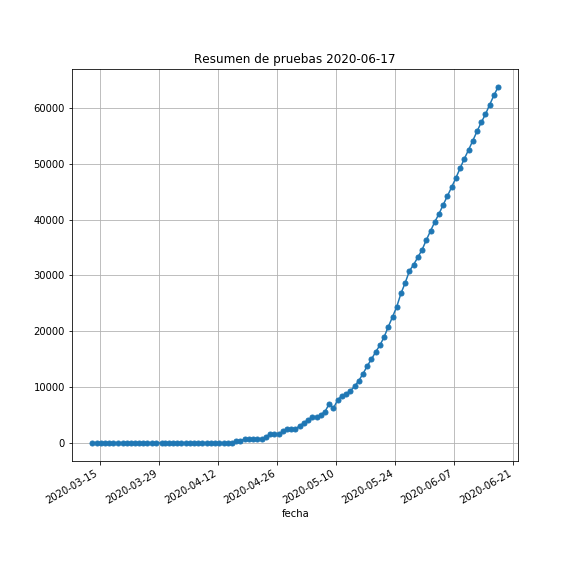
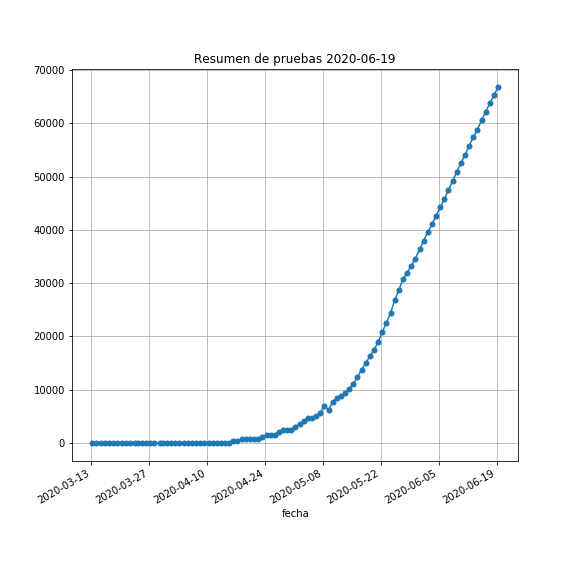
Actualizacion 20junio2020 falta numero de pruebas para hoy

diff --git a/README.md b/README.md
@@ -28,17 +28,17 @@ Proposito:
 08 de Junio 2020: Ahora vamos a intentar recopilar datos del hambre en Guatemala, que la pandemia esta poniendo al frente del escenario. [La Olla](https://www.facebook.com/LaOllaComunitariaCA) [Comunitaria](https://twitter.com/LaOlla_CA) está haciendo esta gran labor. Esperamos poder trabajar con ellos para obtener los datos diarios de comida entregada y poder verlos en la misma grafica con el resto de indicadores (infectados, confirmados, recuperados, fallecidos).
 ## Estadisticas
 
-confirmados:  9845
+confirmados:  12509
 
-recuperados:  1804
+recuperados:  2419
 
-fallecidos:  384
+fallecidos:  483
 
-activos:  7573
+activos:  9605
 
-pruebas realizadas:  58849
+pruebas realizadas:  66843
 
-Comida Entregada GT:  
+Comida Entregada GT:  13347
 
 Comida Entregada GT por [LaOlla](https://www.facebook.com/LaOllaComunitariaCA/)[Comunitaria](https://twitter.com/LaOlla_CA):  13347 (éste dato está desactualizado)
 
